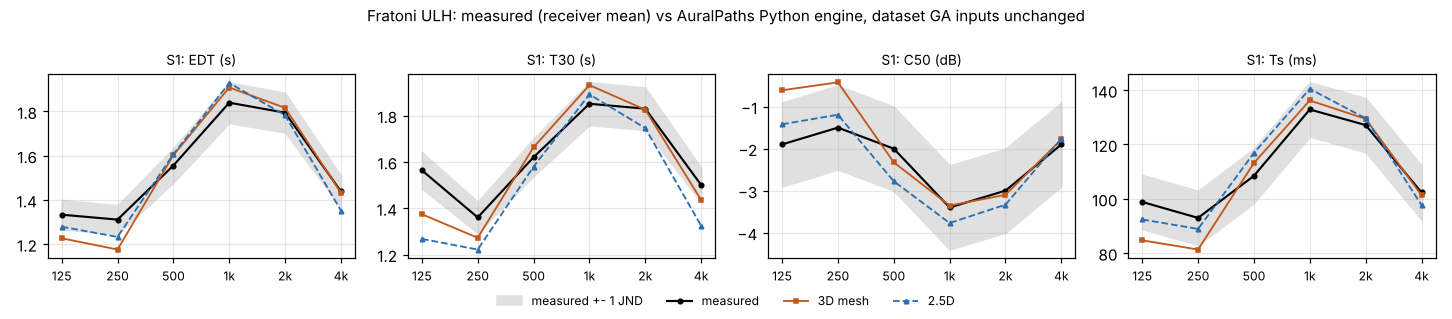
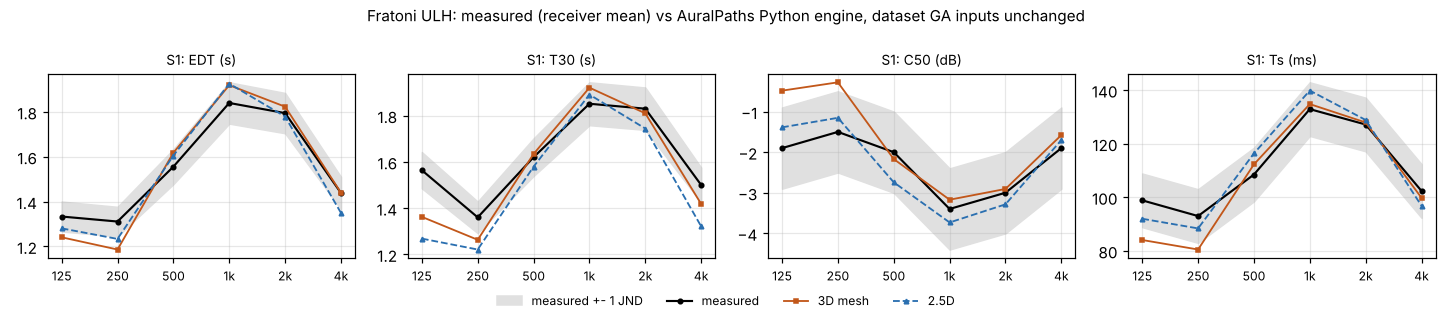
Rerun Fratoni ULH with the final mesh rules; update docs
Values within 0.03 s / 0.2 dB / 1 ms of the earlier run.

Claude-Session: https://claude.ai/code/session_013nqZm3SgeHTFs2aj81Btix

diff --git a/validation/fratoni_ULH.md b/validation/fratoni_ULH.md
@@ -1,19 +1,17 @@
 # Fratoni ULH: measured vs AuralPaths (Python engine)
 
-**Note of 2026-11-18.** This run was made before the dropped-face fix (`validation/mesh_leak.md`; 295 faces dropped) and has not been rerun. With the page's engine as it is now ULH loses no rays.
-
-**Recomputed 2026-11-13 after the engine fixes of 2026-11-12** (pyroomacoustics diffuse rain off; CHANGELOG) with 8 000 rays (50 000 below): mean absolute error over all bands, 3D / 2.5D: EDT 0.8 / 0.8, T30 1.1 / 1.6, C50 0.6 / 0.4, Ts 0.6 / 0.6 JND, i.e. within 0.1 JND of the values below. The tables below are from before the fixes.
+**Rerun 2026-11-19** with the mesh rules of that day (`validation/mesh_leak.md`) and the engine fixes of 2026-11-12, 20 000 rays as before. The run was made in three groups of receivers (R1-R9, R10-R18, R19-R26; one ray-tracing run each with the same seed) because of a run-time limit; with 400 rays the grouped run gave the same per-receiver file as one run for all 26. Against the tables this file held until then (794 faces, 295 dropped, volume 742 m3): 800 room faces, 251 faces behind the room's faces not counted, 780 m3; every value of the 3D mesh within 0.03 s (EDT, T30), 0.2 dB (C50) and 1 ms (Ts) of the earlier run, the 2.5D hall within 0.01 s, 0.07 dB and 1 ms; mean absolute errors changed by at most 0.2 JND.
 
 Data: G. Fratoni, *Materials for calibrating four complex virtual environments through acoustic simulations*, Mendeley Data, https://doi.org/10.17632/y7xnv6xg5s.1 (CC BY 4.0). Measured values: the dataset's Room_Criteria sheet (mean over the listed receivers). Inputs: the dataset's GA absorption / scattering, unchanged.
 
 ```
-ULH: OBJ 1099 faces -> 1099 after decimation -> 794 room-facing faces (295 hidden faces dropped), 1588 walls incl. back faces; room volume (voxels) 742 m3
-surface areas (m2): Plaster 607.9, Seats 198.4, Windows 36.8, Wood 98.7; total 942
-Sabine T (s), no air: 125 Hz 1.15, 250 Hz 1.12, 500 Hz 1.56, 1000 Hz 1.95, 2000 Hz 1.88, 4000 Hz 1.62
+ULH: OBJ 1099 faces -> 1099 after decimation -> 800 room faces (7 narrow ones kept two-sided; 251 behind the room's faces, 252.6 m2, kept but not counted; 38 not at the room dropped), 2102 walls incl. back faces; room volume (voxels) 780 m3
+surface areas (m2): Plaster 610.5, Seats 197.9, Windows 36.8, Wood 99.6; total 945
+Sabine T (s), no air: 125 Hz 1.21, 250 Hz 1.17, 500 Hz 1.64, 1000 Hz 2.05, 2000 Hz 1.98, 4000 Hz 1.70
 height above the surface below (m): S1 1.55, R1 0.56, R2 0.56, R3 0.56, R4 0.31, R5 0.25, R6 0.25, R7 0.25, R8 0.29, R9 0.40, R10 0.41, R11 0.41, R12 0.46, R13 0.46, R14 0.46, R15 0.46, R16 0.53, R17 0.63, R18 0.63, R19 0.63, R20 0.72, R21 0.74, R22 0.74, R23 0.74, R24 1.76, R25 0.96, R26 0.96
-[3D mesh] S1: 26 receivers, 4641 s
-2.5D hall: 36 plan vertices, 77 surfaces, volume 719.4 m3 (mesh 742.1); positions lifted above the averaged floor: none
-[2.5D] S1: 26 receivers, 129 s
+[3D mesh] S1: 26 receivers, 11915 s (three receiver groups: 4423 + 3936 + 3556 s)
+2.5D hall: 36 plan vertices, 77 surfaces, volume 719.4 m3 (mesh 780.4); positions lifted above the averaged floor: none
+[2.5D] S1: 26 receivers, 185 s
 ```
 
 ## S1, receivers: ALL THE RECEIVERS (26)
@@ -21,17 +19,17 @@ height above the surface below (m): S1 1.55, R1 0.56, R2 0.56, R3 0.56, R4 0.31,
 | criterion | model | 125 Hz | 250 Hz | 500 Hz | 1000 Hz | 2000 Hz | 4000 Hz | mean abs (JND) 500-1k | mean abs (JND) all |
 |---|---|---|---|---|---|---|---|---|---|
 | EDT | measured | 1.33 | 1.31 | 1.56 | 1.84 | 1.79 | 1.44 | | |
-| | 3D mesh | 1.23 (-1.6) | 1.18 (-2.1) | 1.60 (+0.6) | 1.91 (+0.7) | 1.82 (+0.2) | 1.43 (-0.1) | 0.7 | 0.9 |
-| | 2.5D | 1.28 (-0.8) | 1.23 (-1.2) | 1.61 (+0.7) | 1.93 (+1.0) | 1.78 (-0.1) | 1.35 (-1.2) | 0.8 | 0.8 |
+| | 3D mesh | 1.24 (-1.4) | 1.19 (-1.9) | 1.62 (+0.8) | 1.92 (+0.9) | 1.82 (+0.3) | 1.44 (+0.0) | 0.8 | 0.9 |
+| | 2.5D | 1.28 (-0.8) | 1.23 (-1.2) | 1.61 (+0.6) | 1.93 (+0.9) | 1.78 (-0.2) | 1.35 (-1.2) | 0.8 | 0.8 |
 | T30 | measured | 1.56 | 1.36 | 1.62 | 1.85 | 1.83 | 1.50 | | |
-| | 3D mesh | 1.37 (-2.4) | 1.27 (-1.3) | 1.66 (+0.5) | 1.93 (+0.9) | 1.83 (-0.0) | 1.44 (-0.9) | 0.7 | 1.0 |
-| | 2.5D | 1.27 (-3.8) | 1.22 (-2.0) | 1.58 (-0.5) | 1.89 (+0.4) | 1.75 (-0.9) | 1.32 (-2.4) | 0.5 | 1.7 |
+| | 3D mesh | 1.36 (-2.6) | 1.26 (-1.4) | 1.63 (+0.2) | 1.92 (+0.8) | 1.81 (-0.2) | 1.42 (-1.1) | 0.5 | 1.0 |
+| | 2.5D | 1.27 (-3.8) | 1.22 (-2.0) | 1.58 (-0.5) | 1.89 (+0.4) | 1.74 (-0.9) | 1.32 (-2.4) | 0.5 | 1.7 |
 | C50 | measured | -1.90 | -1.50 | -2.00 | -3.40 | -3.00 | -1.90 | | |
-| | 3D mesh | -0.61 (+1.3) | -0.42 (+1.1) | -2.32 (-0.3) | -3.35 (+0.0) | -3.10 (-0.1) | -1.78 (+0.1) | 0.2 | 0.5 |
-| | 2.5D | -1.42 (+0.5) | -1.19 (+0.3) | -2.78 (-0.8) | -3.77 (-0.4) | -3.33 (-0.3) | -1.77 (+0.1) | 0.6 | 0.4 |
+| | 3D mesh | -0.48 (+1.4) | -0.28 (+1.2) | -2.17 (-0.2) | -3.17 (+0.2) | -2.91 (+0.1) | -1.58 (+0.3) | 0.2 | 0.6 |
+| | 2.5D | -1.39 (+0.5) | -1.15 (+0.3) | -2.74 (-0.7) | -3.73 (-0.3) | -3.29 (-0.3) | -1.70 (+0.2) | 0.5 | 0.4 |
 | Ts | measured | 99 | 93 | 108 | 133 | 127 | 102 | | |
-| | 3D mesh | 85 (-1.4) | 81 (-1.2) | 113 (+0.5) | 136 (+0.3) | 129 (+0.2) | 101 (-0.1) | 0.4 | 0.6 |
-| | 2.5D | 92 (-0.6) | 89 (-0.4) | 117 (+0.8) | 140 (+0.8) | 130 (+0.2) | 98 (-0.5) | 0.8 | 0.6 |
+| | 3D mesh | 84 (-1.5) | 80 (-1.2) | 112 (+0.4) | 135 (+0.2) | 128 (+0.1) | 100 (-0.3) | 0.3 | 0.6 |
+| | 2.5D | 92 (-0.7) | 88 (-0.5) | 116 (+0.8) | 140 (+0.7) | 129 (+0.2) | 97 (-0.6) | 0.7 | 0.6 |
 
 Not compared: STI = 0.47
 
@@ -44,15 +42,15 @@ Values in brackets: simulated - measured in JND (ISO 3382-1 Annex A: EDT / T30 5
  "preserve": "eyring",
  "groups": {
   "aud": {
-   "mesh_area_m2": 157.5,
+   "mesh_area_m2": 157.0,
    "hall_area_m2": 147.8,
    "mesh_absorption_area_m2": [
-    37.52,
-    35.41,
-    25.92,
-    19.47,
-    18.28,
-    18.67
+    37.31,
+    35.21,
+    25.78,
+    19.37,
+    18.19,
+    18.58
    ]
   },
   "stage": {
@@ -68,31 +66,31 @@ Values in brackets: simulated - measured in JND (ISO 3382-1 Annex A: EDT / T30 5
    ]
   },
   "wall": {
-   "mesh_area_m2": 433.3,
+   "mesh_area_m2": 434.2,
    "hall_area_m2": 240.0,
    "mesh_absorption_area_m2": [
-    60.92,
-    62.81,
-    39.09,
-    30.54,
-    30.49,
-    33.41
+    61.06,
+    62.97,
+    39.13,
+    30.58,
+    30.52,
+    33.45
    ]
   },
   "ceil": {
-   "mesh_area_m2": 309.5,
+   "mesh_area_m2": 312.0,
    "hall_area_m2": 184.2,
    "mesh_absorption_area_m2": [
-    3.09,
-    6.19,
-    9.28,
-    9.28,
-    12.38,
-    18.57
+    3.12,
+    6.24,
+    9.36,
+    9.36,
+    12.48,
+    18.72
    ]
   }
  },
- "volume_mesh_m3": 742.1,
+ "volume_mesh_m3": 780.4,
  "n_plan_vertices": 36,
  "n_floor": 25,
  "n_ceil": 17,

diff --git a/docs/MODEL_en.md b/docs/MODEL_en.md
@@ -459,15 +459,15 @@ are wanted.
   surface has thousands of shallow edges that are not wedges), isotropic late field above 3000 surfaces.
 - Conversion to 2.5D: plan outline = outline of the room's voxels; for each 0.25 m slice along the depth axis,
   floor = plan-area mean of the lowest room voxel per column (seat blocks count as raised floor) and ceiling =
-  floor + slice volume / slice area, so the volume is kept (ULH 742 → 719 m³, STC 842 → 805 m³). A dome becomes a
+  floor + slice volume / slice area, so the volume is kept (ULH 780 → 719 m³, STC 842 → 805 m³). A dome becomes a
   vault extruded across the width; balconies and overhangs are lost; an object covering part of the width (a
   lectern) becomes a raised strip across the whole width.
 - Materials: faces go to the four 2.5D groups by their inward normal (floor / stage, ceiling, wall). The 2.5D hall
-  has less surface than the mesh (ULH 942 → 622 m²: no seat risers, no small faces), so keeping each group's
+  has less surface than the mesh (ULH 945 → 622 m²: no seat risers, no small faces), so keeping each group's
   absorption area A_g (`--preserve sabine`) raises the mean α, and the 2.5D hall then decays faster than the mesh.
   The default (`--preserve eyring`) sets α_g = 1 − exp(−A_g / S_g,2.5D): the 2.5D group's Eyring exponent equals the
   mesh group's Sabine absorption area. The ray-traced T30 of both 3D meshes is close to Sabine (STC 1 kHz 1.51 s vs
-  1.47 s; ULH 1 kHz 1.93 vs 1.95 s); the choice of mapping is empirical: in ULH the 2.5D T30 is 0.04–0.12 s below
+  1.47 s; ULH 1 kHz 1.92 vs 2.05 s); the choice of mapping is empirical: in ULH the 2.5D T30 is 0.04–0.12 s below
   the mesh at 125 Hz–4 kHz with `eyring`, 0.14–0.25 s with `sabine` (keeping A), and 0.11–0.21 s with one factor per
   band that keeps the room's Eyring exponent (`room-eyring`) (`validation/fratoni_ULH_preserve.md`). A per-material
   Eyring sum (Millington's form) was also tried and was worse (it weights the absorbing seat faces up). (Until
@@ -654,8 +654,8 @@ Results (simulated − measured, in JND; full tables and figures in `validation/
 
 | hall, source | model | T30 125 / 250 / 500 / 1k / 2k / 4k Hz | EDT 500–4k | C50 / C80 500–4k | Ts 500–4k |
 |---|---|---|---|---|---|
-| ULH, S1 (26 receivers) | 3D mesh | −2.4 / −1.3 / +0.5 / +0.9 / −0.0 / −0.9 | −0.1 … +0.7 | −0.3 … +0.1 | −0.1 … +0.5 |
-| | 2.5D | −3.8 / −2.0 / −0.5 / +0.4 / −0.9 / −2.4 | −1.2 … +1.0 | −0.8 … +0.1 | −0.5 … +0.8 |
+| ULH, S1 (26 receivers) | 3D mesh | −2.6 / −1.4 / +0.2 / +0.8 / −0.2 / −1.1 | +0.0 … +0.9 | −0.2 … +0.3 | −0.3 … +0.4 |
+| | 2.5D | −3.8 / −2.0 / −0.5 / +0.4 / −0.9 / −2.4 | −1.2 … +0.9 | −0.7 … +0.2 | −0.6 … +0.8 |
 | STC, S1 (10) | 3D mesh | +7.3 / +4.7 / +4.6 / +2.9 / +4.2 / +4.0 | +4.0 … +5.4 | −1.7 … −1.2 | +2.2 … +3.2 |
 | | 2.5D | +7.5 / +4.6 / +4.2 / +2.2 / +3.4 / +3.4 | +4.8 … +6.6 | −1.9 … −1.3 | +2.1 … +3.2 |
 | STC, S2 (4) | 3D mesh | +9.3 / +3.1 / +2.6 / +2.5 / +4.2 / +4.0 | +3.2 … +5.9 | −1.7 … −0.6 | +1.6 … +2.6 |
@@ -664,7 +664,7 @@ Results (simulated − measured, in JND; full tables and figures in `validation/
 Reading:
 - ULH: from 500 Hz to 4 kHz all criteria of the 3D mesh are within about 1 JND of the measurement; at 125–250 Hz
   T30 and EDT are 1–2 JND short and C50 about 1.3 dB high. A Sabine estimate from the same inputs is also short there
-  (1.15 s vs 1.56 s measured at 125 Hz, mesh volume 742 m³), so the low-frequency gap is in the inputs (volume and
+  (1.21 s vs 1.56 s measured at 125 Hz, mesh volume 780 m³), so the low-frequency gap is in the inputs (volume and
   coefficients as used here), not in the ray tracing. The 2.5D hall is within 0.15 s of the mesh from 250 Hz to
   2 kHz.
 - STC: both models are about 15 % long (1 kHz: 1.51 s vs 1.32 s measured), the 3D mesh and the 2.5D hall agree
@@ -690,8 +690,8 @@ python validate_fratoni.py "<dataset folder>" STC --obj STC_model.obj --no-3d --
 The converted halls (`validation/fratoni_*_2p5d_config.json`, CC BY 4.0 with the dataset's attribution) open in the
 page with **Load config…**. Run 2026-11-05, re-run 2026-11-06 with the specular reflection factors (changes ≤ 0.2 JND)
 and again with the ray-tracing energy floor fixed (changes ≤ 0.4 JND; ULH 3D mesh about 77 min, STC 38 min on 2 CPU
-cores). STC rerun 2026-11-19 with the mesh rules of that day (`validation/mesh_leak.md`; 3D mesh 82 min): T30 of the
-3D mesh 0 – 0.04 s longer, mean absolute errors changed by at most 0.8 JND.
+cores). ULH and STC rerun 2026-11-19 with the mesh rules of that day (`validation/mesh_leak.md`; STC 3D mesh 82 min, ULH 199 min in three receiver groups):
+STC T30 of the 3D mesh 0 – 0.04 s longer, mean absolute errors changed by at most 0.8 JND; ULH within 0.03 s and 0.2 JND.
 
 ### The two opera houses with the browser engine (TCB, DUS; `validation/check_fratoni_js.py`, 2026-11-07)
 

diff --git a/validation/mesh_leak.md b/validation/mesh_leak.md
@@ -171,12 +171,11 @@ other across the slots between neighbouring panels; rays that entered a slot wer
 now; since 2026-11-19 they are not counted in the surface (352 m², as before the fix; 442 m² in the runs of
 2026-11-18 / 19 before that change), because they have no free line to the room.
 
-Not rerun: the BRIR checks of CR3 / CR4, `fratoni_ULH.md`
-(Python engine, hours of run time), `arni_check.md`, `opera_check.md`, the Arvedi records (excluded from use) and the
+Not rerun: the BRIR checks of CR3 / CR4 (Python engine), `arni_check.md`, `opera_check.md`, the Arvedi records (excluded from use) and the
 calibrations built on them. Their numbers are from the engine with the dropped faces. Detmold and the Fratoni 2.5D
 runs use drawn halls, which have no voxel step, and are not affected.
 
-Rerun 2026-11-19 with the final rules: `fratoni_STC.md`, `bras_CR3.md`, `bras_CR4.md` (notes at their tops; the BRAS tables in `docs/MODEL_*` still show the runs before).
+Rerun 2026-11-19 with the final rules: `fratoni_STC.md`, `fratoni_ULH.md`, `bras_CR3.md`, `bras_CR4.md` (notes at their tops; the BRAS tables in `docs/MODEL_*` still show the runs before).
 
 ## The `.skp` reader
 

diff --git a/CHANGELOG.md b/CHANGELOG.md
@@ -15,7 +15,7 @@ files.
     surface bands, and free spaces that probe rays enter and that are not joined to the outside (CR4: 16 m³ between
     the ceiling panels and the ceiling). A ray between the backs of one-sided faces is followed instead of ended
     (CR4: the 4 cm slot inside the double-skin ceiling panels). Results of 3D models change; documented runs made with the Python
-  engine (ULH, Arni, OperaRIR, the BRAS BRIR checks) have not been rerun and carry a note; STC and BRAS CR3 / CR4 were rerun 2026-11-19.
+  engine (Arni, OperaRIR, the BRAS BRIR checks) have not been rerun and carry a note; ULH, STC and BRAS CR3 / CR4 were rerun 2026-11-19.
   - Faces behind the room's faces (2026-11-19): the fix above also kept faces that do not bound the room (the outer
     skin of a thin wall, the slab under a flight of steps, touching panel sides), and counted them: Fratoni ULH 252
     of 1197 m², Arni 89 m², DUS 437 m², TCB 799 m²; BRAS CR4 had 122 m² of this kind since before the fix. A face
